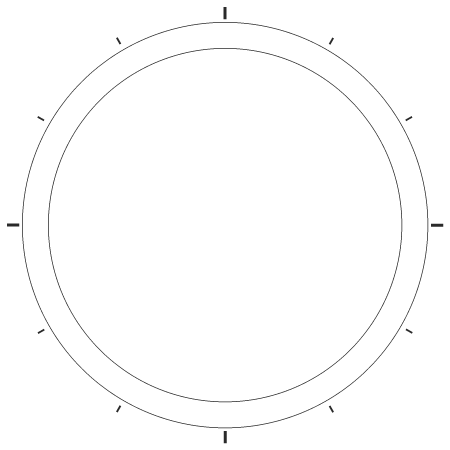
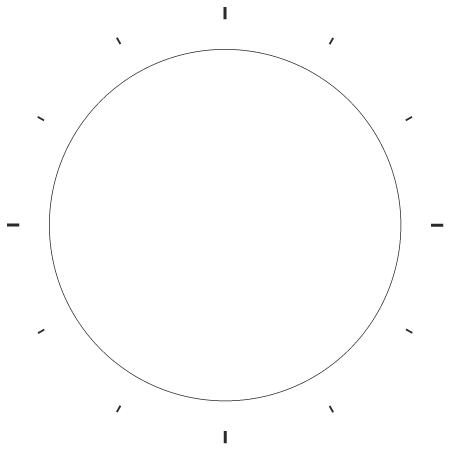
Scanimation: light a single per-minute marking
Replace the moiré minute arc, which could only resolve about five minutes,
with sixty printed markings and a marking-sized window that steps to the
current minute over the sliding minute ink.

Claude-Session: https://claude.ai/code/session_01U7vwC29cqQDcqoDDqQvHXs

diff --git a/faces/scanimation/generate_xml.py b/faces/scanimation/generate_xml.py
@@ -19,27 +19,27 @@ The mask is a black plate with the dial cut into it as slits:
   hour window    the twelve hour numerals, all stacked in the centre and
                  interleaved. Their slits are tilted rules with a 24 px period;
                  numeral k owns the 2 px phase band 2k..2k+2.
-  minute ring    an annulus whose vertical slits shift phase continuously
-                 with angle, 12 px over one turn (1 px = five minutes).
+  minute tick    one narrow window, the size of a single minute marking.
 
 The sheet is a single 12-hour strip printed with two inks of fine rules:
 
-  minute ink     vertical rules, period 12 px.
+  minute ink     fine vertical rules, period 4 px.
   hour ink       rules tilted so their horizontal period is 144 px (normal at
                  acos(1/6) from horizontal, perpendicular period 24 px).
 
 The whole sheet slides right 0.2 px per minute: 144 px in 12 hours, then wraps
-seamlessly because both rulings repeat over 144 px. The tilted hour rules turn
-that one slide into a 12:1 gear: the vertical rules cycle once an hour, the
-tilted rules once in twelve hours. Where a rule lies over a slit, light comes
-through:
+seamlessly because both rulings repeat over 144 px. Where a rule lies over a
+slit, light comes through:
 
   * the hour numeral whose phase band sits under an hour rule appears; it is
     complete at half past and interleaves (the Scanimation in-between frame)
     with its neighbour across each hour, so the brighter numeral is always the
     current hour;
-  * a hatched arc lights the minute ring, brightest at the current minute and
-    fading out five minutes either side.
+  * the minutes are faked. A true barrier grid can only resolve about five
+    minutes on this ring (a 1 px slit phase = 5 min), so instead the minute
+    window itself steps to the current minute marking, one of sixty printed
+    faintly on the plate. Through it you see the sliding minute ink, so the lit
+    marking is striped and drifts like the rest of the sheet.
 
 The two inks share one transform expression; they are separate SOURCE/MASK
 groups only so each ink shows through its own windows (in print they would be
@@ -59,8 +59,9 @@ SIZE = 450
 C = SIZE / 2
 SS = 4                      # supersampling for antialiased rules and slits
 
-PERIOD = 12.0               # px: vertical minute rule period (one hour of slide)
-SLIT = 1.0                  # px: minute slit and minute rule width (1 px = 5 min)
+PERIOD = 12.0               # px: slide per hour
+MINUTE_RULE_PERIOD = 4.0    # px: fine vertical minute rules (divides TRAVEL)
+MINUTE_RULE = 2.5           # px
 HOUR_PERIOD = 24.0          # px: perpendicular period of the tilted hour rules
 HOUR_SLIT = HOUR_PERIOD / 12  # px: each numeral owns a 2 px phase band
 HOUR_RULE = 1.25            # px: narrower than a 2 px band, so antialiasing at the
@@ -72,12 +73,16 @@ COS_A = HOUR_PERIOD / TRAVEL  # tilt: hour phase advances one period per 12 h
 SIN_A = math.sqrt(1 - COS_A ** 2)
 
 RING_IN, RING_OUT = 180, 201     # minute ring (safe inset 24 -> r <= 201)
+TICK = (RING_IN + 3, RING_OUT - 1, 1.6)      # printed minute marking: r0, r1, width
+TICK_FIVE = (RING_IN, RING_OUT, 3.0)         # printed five-minute marking
+LIT_TICK = (RING_IN - 1, RING_OUT + 1, 7.0)  # lit window, covers either marking
 NUMERAL_HEIGHT = 224             # cap height of the stacked hour numerals
 HOUR_LABELS = ["12"] + [str(h) for h in range(1, 12)]
 
 HOUR_INK = "#FFFFC46B"
 MINUTE_INK = "#FFE9F3FF"
 PLATE_PRINT = "#FF2A2A2A"
+MINUTE_PRINT = "#FF4A4A4A"
 
 # Minutes since 12:00 including seconds, so the slide is continuous.
 CLOCK = "(([HOUR_0_23] % 12) * 60 + [MINUTE] + [SECOND] / 60)"
@@ -91,7 +96,7 @@ def grid(width, height, x0=0.0):
     return np.meshgrid(xs, ys)
 
 
-def band(phase, centre=0.0, width=SLIT, period=PERIOD):
+def band(phase, centre, width, period):
     """True where phase lies within +/- width/2 of centre, modulo period."""
     d = (phase - centre + period / 2) % period - period / 2
     return np.abs(d) < width / 2
@@ -101,10 +106,17 @@ def hour_phase(x, y):
     return x * COS_A + y * SIN_A
 
 
-def minute_phase(x, y):
-    """0..12 px clockwise from twelve o'clock."""
-    theta = np.degrees(np.arctan2(x, -y)) % 360
-    return PERIOD * theta / 360
+def radial_bar(x, y, angle, r0, r1, width):
+    """A radial marking at `angle` degrees clockwise from twelve."""
+    a = math.radians(angle)
+    along = x * math.sin(a) - y * math.cos(a)
+    across = x * math.cos(a) + y * math.sin(a)
+    return (along >= r0) & (along <= r1) & (np.abs(across) <= width / 2)
+
+
+def minute_window(angle=0.0):
+    x, y = grid(SIZE, SIZE)
+    return downsample(radial_bar(x, y, angle, *LIT_TICK))
 
 
 def downsample(mask):
@@ -148,10 +160,7 @@ def build_masks():
         hour |= (slot == k) & layer
     # Keep the window in the dial's interior.
     hour &= r < RING_IN - 6
-
-    ring = (r >= RING_IN) & (r <= RING_OUT)
-    minute = ring & band(x, minute_phase(x, y))
-    return downsample(hour), downsample(minute)
+    return downsample(hour), minute_window(0.0)
 
 
 def build_sheets():
@@ -159,8 +168,17 @@ def build_sheets():
     width = SIZE + TRAVEL
     x, y = grid(width, SIZE, x0=-TRAVEL)
     hour = band(hour_phase(x, y), 0.0, HOUR_RULE, HOUR_PERIOD)
-    minute = band(x)
+    minute = band(x, 0.0, MINUTE_RULE, MINUTE_RULE_PERIOD)
     return downsample(hour), downsample(minute)
+
+
+def build_minute_print():
+    """Sixty faint minute markings printed on the plate."""
+    x, y = grid(SIZE, SIZE)
+    marks = np.zeros_like(x, dtype=bool)
+    for m in range(60):
+        marks |= radial_bar(x, y, m * 6, *(TICK_FIVE if m % 5 == 0 else TICK))
+    return downsample(marks)
 
 
 def build_plate():
@@ -174,7 +192,7 @@ def build_plate():
         p0 = (C + r0 * math.sin(a), C - r0 * math.cos(a))
         p1 = (C + r1 * math.sin(a), C - r1 * math.cos(a))
         draw.line([(p0[0] * SS, p0[1] * SS), (p1[0] * SS, p1[1] * SS)], fill=255, width=int(w * SS))
-    for rr in (RING_IN - 3, RING_OUT + 2):
+    for rr in (RING_IN - 4,):
         box = [(C - rr) * SS, (C - rr) * SS, (C + rr) * SS, (C + rr) * SS]
         draw.ellipse(box, outline=255, width=int(0.75 * SS))
     return downsample(np.asarray(img) / 255.0)
@@ -197,7 +215,8 @@ def simulate(minutes, layers, scale=1.0):
 
     Uses the same half-open slide and bilinear sub-pixel shift a renderer would.
     """
-    hour_mask, minute_mask, hour_sheet, minute_sheet, plate = layers
+    hour_mask, _, hour_sheet, minute_sheet, plate, minute_print = layers
+    minute_mask = minute_window(math.floor(minutes % 60) * 6)
     shift = (minutes % 720) * RATE
     whole = int(math.floor(shift))
     frac = shift - whole
@@ -211,6 +230,7 @@ def simulate(minutes, layers, scale=1.0):
 
     out = np.zeros((SIZE, SIZE, 3))
     out += plate[..., None] * hex_rgb(PLATE_PRINT)
+    out += minute_print[..., None] * hex_rgb(MINUTE_PRINT) * (1 - minute_mask[..., None])
     out += (slide(hour_sheet) * hour_mask)[..., None] * hex_rgb(HOUR_INK) * scale
     out += (slide(minute_sheet) * minute_mask)[..., None] * hex_rgb(MINUTE_INK) * scale
     y, x = np.mgrid[:SIZE, :SIZE]
@@ -226,6 +246,9 @@ XML = f"""<?xml version="1.0" encoding="utf-8"?>
   <Scene backgroundColor="#FF000000">
     <PartImage x="0" y="0" width="{SIZE}" height="{SIZE}" name="mask_plate_print">
       <Image resource="scan_plate" />
+    </PartImage>
+    <PartImage x="0" y="0" width="{SIZE}" height="{SIZE}" name="minute_markings_print">
+      <Image resource="scan_minute_print" />
     </PartImage>
     <Group x="0" y="0" width="{SIZE}" height="{SIZE}" name="hour_ink">
       <Variant mode="AMBIENT" target="alpha" value="170" />
@@ -249,10 +272,13 @@ XML = f"""<?xml version="1.0" encoding="utf-8"?>
           <Image resource="scan_sheet_minute" />
         </PartImage>
       </Group>
-      <Group x="0" y="0" width="{SIZE}" height="{SIZE}" renderMode="MASK" name="mask_minute_slits">
-        <PartImage x="0" y="0" width="{SIZE}" height="{SIZE}">
-          <Image resource="scan_mask_minute" />
-        </PartImage>
+      <Group x="0" y="0" width="{SIZE}" height="{SIZE}" renderMode="MASK" name="mask_minute_window">
+        <Group x="0" y="0" width="{SIZE}" height="{SIZE}" pivotX="0.5" pivotY="0.5" name="minute_window_step">
+          <Transform target="angle" value="[MINUTE] * 6" />
+          <PartImage x="0" y="0" width="{SIZE}" height="{SIZE}">
+            <Image resource="scan_mask_minute" />
+          </PartImage>
+        </Group>
       </Group>
     </Group>
   </Scene>
@@ -265,14 +291,16 @@ def main():
     hour_mask, minute_mask = build_masks()
     hour_sheet, minute_sheet = build_sheets()
     plate = build_plate()
+    minute_print = build_minute_print()
     save_alpha(hour_mask, "scan_mask_hour")
     save_alpha(minute_mask, "scan_mask_minute")
     save_alpha(hour_sheet, "scan_sheet_hour", HOUR_INK)
     save_alpha(minute_sheet, "scan_sheet_minute", MINUTE_INK)
     save_alpha(plate, "scan_plate", PLATE_PRINT)
+    save_alpha(minute_print, "scan_minute_print", MINUTE_PRINT)
     (HERE / "watchface.xml").write_text(XML)
 
-    layers = (hour_mask, minute_mask, hour_sheet, minute_sheet, plate)
+    layers = (hour_mask, minute_mask, hour_sheet, minute_sheet, plate, minute_print)
     previews = HERE / "previews"
     previews.mkdir(exist_ok=True)
     for label, minutes in [("10-10", 610), ("03-00", 180), ("03-30", 210), ("07-45", 465), ("12-05", 5)]:

diff --git a/faces/scanimation/notes.md b/faces/scanimation/notes.md
@@ -9,9 +9,9 @@ sideways under the mask to show the time.
 - **Hour**: the big amber numeral in the centre. It stands alone from about
   :11 to :49. Around each hour change it interleaves with the next numeral,
   like a Scanimation in-between frame. The brighter numeral is the current hour.
-- **Minute**: the hatched arc on the outer ring, brightest at the current
-  minute and fading out about five minutes either side. Faint printed indices
-  sit just outside the ring.
+- **Minute**: sixty faint markings are printed around the ring. The current
+  minute's marking lights up white, striped by the sliding minute ink, and
+  steps to the next marking each minute.
 
 ## Mechanism
 
@@ -19,14 +19,22 @@ Two layers, one motion:
 
 | Layer | What it is |
 | --- | --- |
-| Mask (fixed) | Black plate. The twelve numerals are cut into it as tilted slits, interleaved: numeral k owns phase band k of 12 in a 24 px period. The minute ring is cut as vertical slits whose phase advances 12 px per turn. |
-| Sheet (moves) | One strip printed with two rulings: vertical rules every 12 px (minute ink) and rules tilted so they repeat every 144 px horizontally (hour ink). |
+| Mask (fixed) | Black plate. The twelve numerals are cut into it as tilted slits, interleaved: numeral k owns phase band k of 12 in a 24 px period. |
+| Minute window | One marking-sized window that steps to the current minute (`[MINUTE] * 6`). |
+| Sheet (moves) | One strip printed with two rulings: fine vertical rules every 4 px (minute ink) and rules tilted so they repeat every 144 px horizontally (hour ink). |
 
 The sheet slides right 0.2 px per minute, which is 144 px per 12 hours. Both
-rulings repeat over 144 px, so the 12:00 wrap is invisible. Each slide of
-12 px moves the vertical rules through a full period, one turn of the minute
-arc. The same 12 px moves the tilted rules through only 1/12 of their phase.
-This 12:1 gear lets a single lateral slide drive both hands.
+rulings repeat over 144 px, so the 12:00 wrap is invisible. The same slide
+moves the tilted hour rules through one full phase period in 12 hours, so the
+numerals change once an hour.
+
+**The minutes are faked** (Patrick, October 2026: "narrow the minutes, we can
+fake the effect there and get per-minute markings"). The first version lit
+the ring by true moiré. Vertical slits shifted phase 12 px per turn, which
+gave a hatched arc about ten minutes wide. One pixel of phase is five minutes,
+so a single slide can't resolve one minute. Now a marking-shaped window rotates
+in one-minute steps. Through it you see the real sliding minute ink, so the
+lit marking keeps the striped Scanimation look.
 
 The numerals are cut into the mask, not printed on the sheet. A picture on a
 sheet that travels 144 px would ride along with it. The time is carried by
